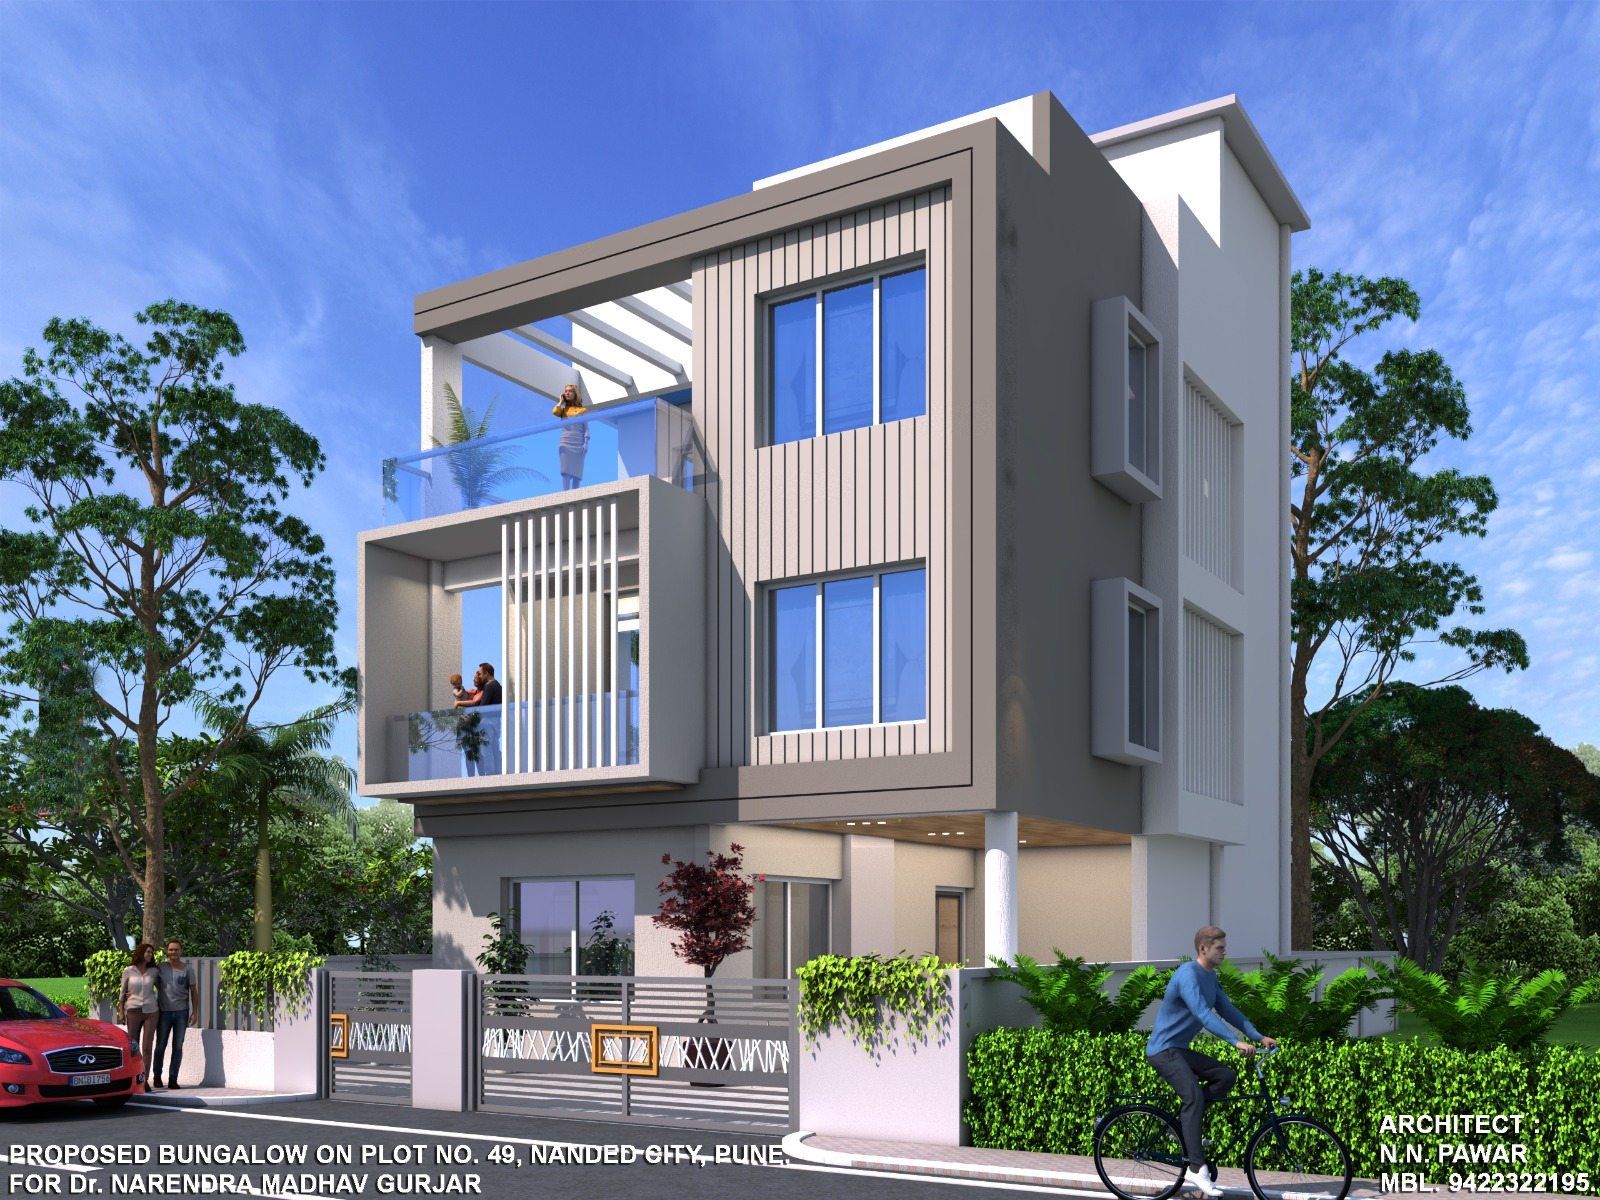
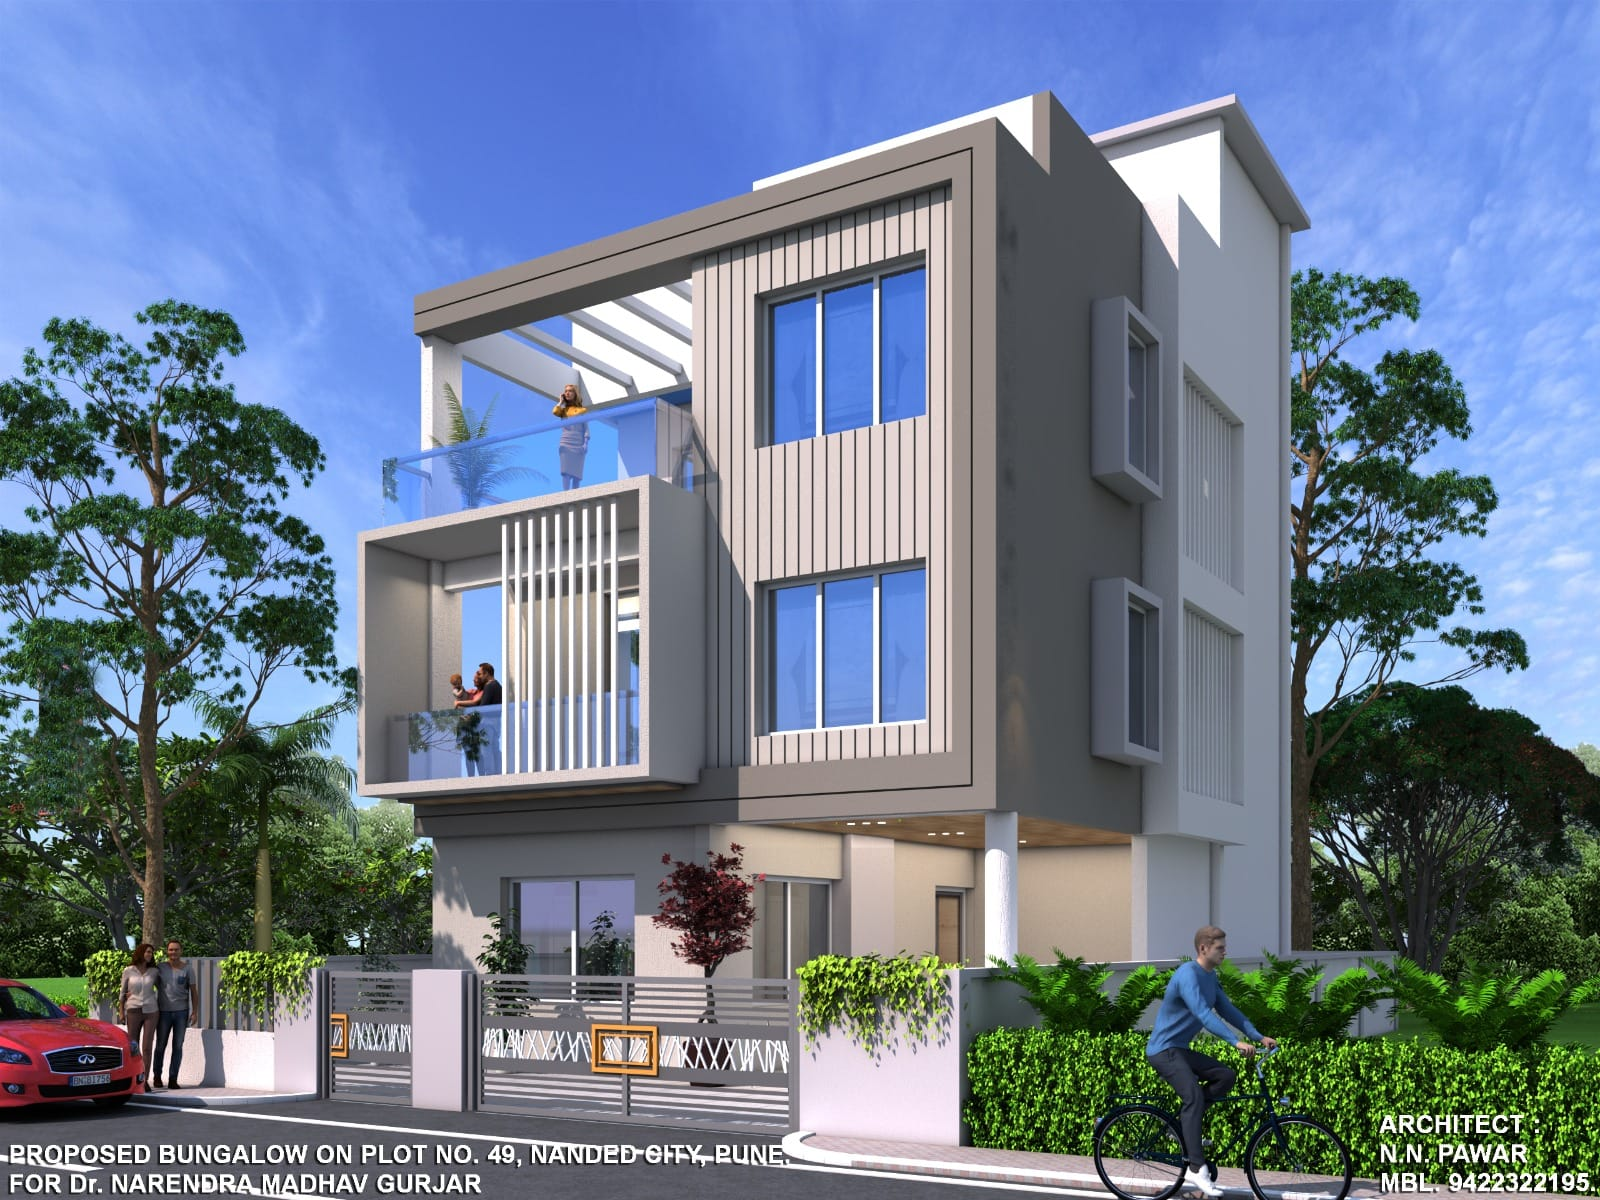
perf: compress images 89% smaller (36MB → 4MB) + add compress script

diff --git a/scripts/compress-images.js b/scripts/compress-images.js
@@ -1,0 +1,69 @@
+// Image compression script using sharp (bundled with Next.js)
+// Run with: node scripts/compress-images.js
+
+const sharp = require("sharp");
+const fs = require("fs");
+const path = require("path");
+
+const IMAGES_DIR = path.join(__dirname, "../public/images");
+const MAX_WIDTH = 1920; // Max width in pixels
+const JPEG_QUALITY = 80; // 80% quality — good balance of size vs. clarity
+
+async function getFileSizeKB(filePath) {
+  const stats = fs.statSync(filePath);
+  return (stats.size / 1024).toFixed(1);
+}
+
+async function compressImages() {
+  const files = fs.readdirSync(IMAGES_DIR).filter((f) =>
+    /\.(jpg|jpeg|png)$/i.test(f)
+  );
+
+  console.log(`\n🖼  Found ${files.length} images to compress...\n`);
+  console.log("─".repeat(70));
+
+  let totalBefore = 0;
+  let totalAfter = 0;
+
+  for (const file of files) {
+    const inputPath = path.join(IMAGES_DIR, file);
+    const tempPath = path.join(IMAGES_DIR, `__temp__${file}`);
+
+    const beforeKB = parseFloat(await getFileSizeKB(inputPath));
+    totalBefore += beforeKB;
+
+    try {
+      await sharp(inputPath)
+        .resize({ width: MAX_WIDTH, withoutEnlargement: true })
+        .jpeg({ quality: JPEG_QUALITY, progressive: true, mozjpeg: true })
+        .toFile(tempPath);
+
+      const afterKB = parseFloat(await getFileSizeKB(tempPath));
+      totalAfter += afterKB;
+
+      const savings = (((beforeKB - afterKB) / beforeKB) * 100).toFixed(0);
+
+      // Replace original with compressed version
+      fs.unlinkSync(inputPath);
+      fs.renameSync(tempPath, inputPath);
+
+      const icon = afterKB < 500 ? "✅" : "⚠ ";
+      console.log(
+        `${icon} ${file.padEnd(25)} ${String(Math.round(beforeKB) + "KB").padStart(8)} → ${String(Math.round(afterKB) + "KB").padStart(8)}   (${savings}% smaller)`
+      );
+    } catch (err) {
+      // Clean up temp file if it exists
+      if (fs.existsSync(tempPath)) fs.unlinkSync(tempPath);
+      console.error(`❌ Failed: ${file} — ${err.message}`);
+    }
+  }
+
+  console.log("─".repeat(70));
+  const totalSavings = (((totalBefore - totalAfter) / totalBefore) * 100).toFixed(0);
+  console.log(
+    `\n📦 Total:  ${Math.round(totalBefore / 1024)}MB → ${Math.round(totalAfter / 1024)}MB   (${totalSavings}% saved)\n`
+  );
+  console.log("✅ All images compressed and replaced in-place!\n");
+}
+
+compressImages();
